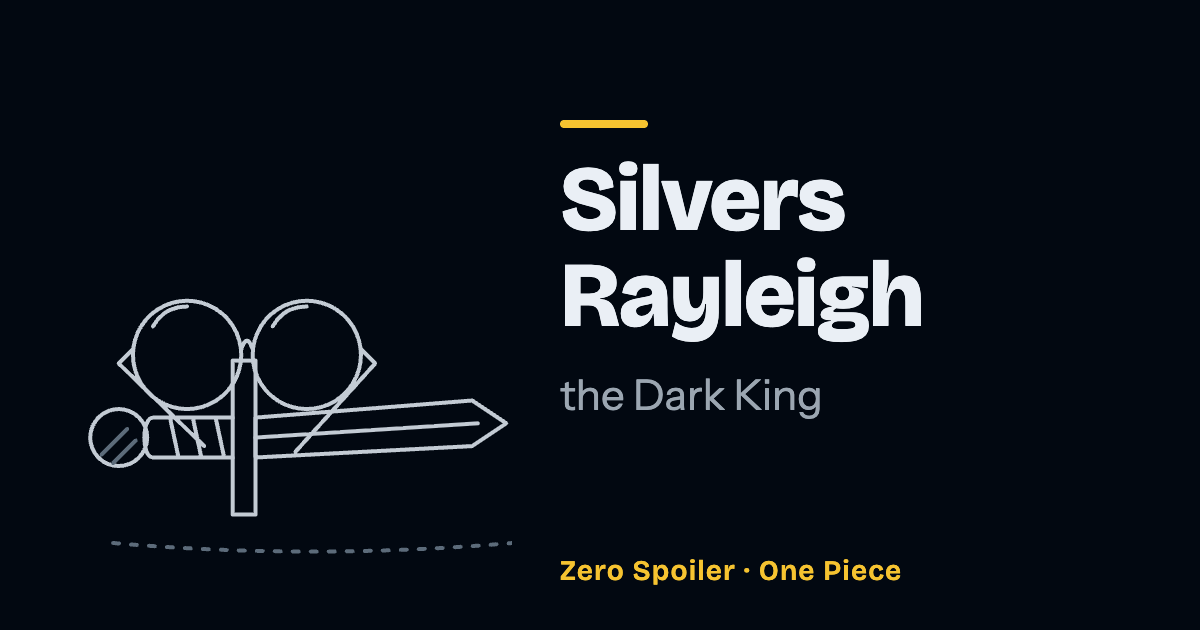
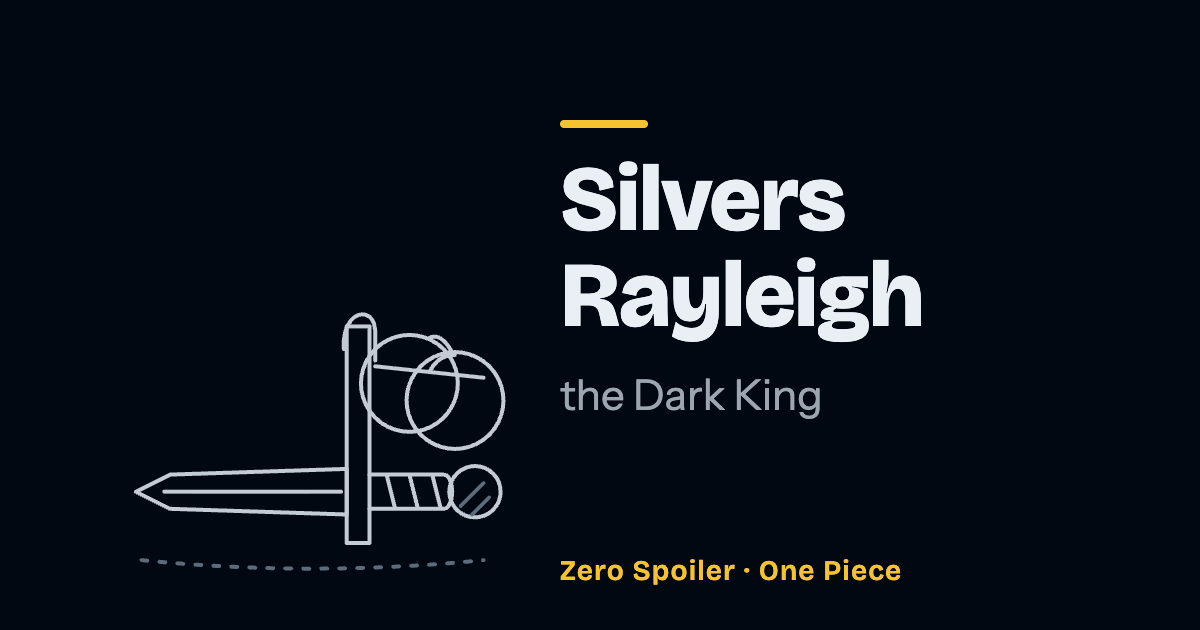
fix(art): fold Rayleigh's spectacles clear of the blade
Claude-Session: https://claude.ai/code/session_018XDoqAtT67ZkYEKqrsdP9h

Changed region(s): [[0.0617, 0.4524, 0.4317, 0.9048], [0.1233, 0.4524, 0.185, 0.5127]]

diff --git a/src/data/series/one-piece/art/summit-war.ts b/src/data/series/one-piece/art/summit-war.ts
@@ -786,25 +786,27 @@ export const summitWarArt = {
     shadow(80, 176, 74),
   ],
 
-  // His round spectacles, folded and hung on the cross hilt of his sword, the
-  // lenses in his colour; the sword lies on its side, a double-edged straight
-  // blade with a round pommel, the grip wrapped. He is first seen in the
-  // glasses in episode 398 (ch. 504), and he stops Kizaru with the sword
+  // His round spectacles folded shut and hung by a temple from the top of
+  // his sword's cross hilt, the two lenses overlapping in 3/4 in his colour,
+  // the far rim seen through the near lens, clear of the blade. The sword
+  // lies on its side beneath them: a double-edged straight blade, the guard
+  // standing up, the wrapped grip and the round pommel. He is first seen in
+  // the glasses in episode 398 (ch. 504), and he stops Kizaru with the sword
   // inside the arc, in episode 404 (ch. 512).
   'silvers-rayleigh': [
-    { d: 'M70 136 L146 130 L158 138 L146 146 L70 150 Z' },
-    { d: 'M70 143 L148 138', role: 'soft' },
-    { d: 'M62 116 L70 116 L70 170 L62 170 Z' },
-    { d: 'M62 136 H34 C30 136 30 150 34 150 H62' },
-    { d: 'M40 136 l3 14 M48 136 l3 14 M56 136 l3 14', role: 'soft' },
-    { d: circle(22, 143, 10) },
-    { d: 'M16 149 l9 -9 M20 152 l8 -8', role: 'ambient' },
-    { d: `${circle(46, 114, 19)} ${circle(88, 114, 19)}`, role: 'accent' },
-    {
-      d: 'M65 112 Q67 106 69 112 M27 112 L22 117 L52 146 M107 112 L112 117 L84 148',
-    },
-    { d: 'M34 104 q4 -7 12 -7 M76 104 q4 -7 12 -7', role: 'soft' },
-    shadow(90, 180, 70),
+    { d: 'M102 154 L40 156 L28 162 L40 168 L102 170 Z' },
+    { d: 'M100 162 L38 162', role: 'soft' },
+    { d: 'M102 104 H110 V180 H102 Z' },
+    { d: 'M110 156 H136 C140 156 140 168 136 168 H110' },
+    { d: 'M116 156 l3 12 M124 156 l3 12 M132 156 l3 12', role: 'soft' },
+    { d: circle(147, 162, 9) },
+    { d: 'M142 167 l8 -8 M146 170 l6 -6', role: 'ambient' },
+    { d: 'M101 112 C100 98 112 96 112 106 L112 116' },
+    { d: `${circle(124, 124, 17)} ${circle(140, 130, 17)}`, role: 'accent' },
+    { d: 'M131 108 Q135 106 139 113' },
+    { d: 'M112 118 L150 122', role: 'soft' },
+    { d: 'M131 120 q3 -6 9 -6', role: 'soft' },
+    shadow(90, 186, 60),
   ],
 
   // One of his gauntlets lying on its side, the cuff flaring open towards the
